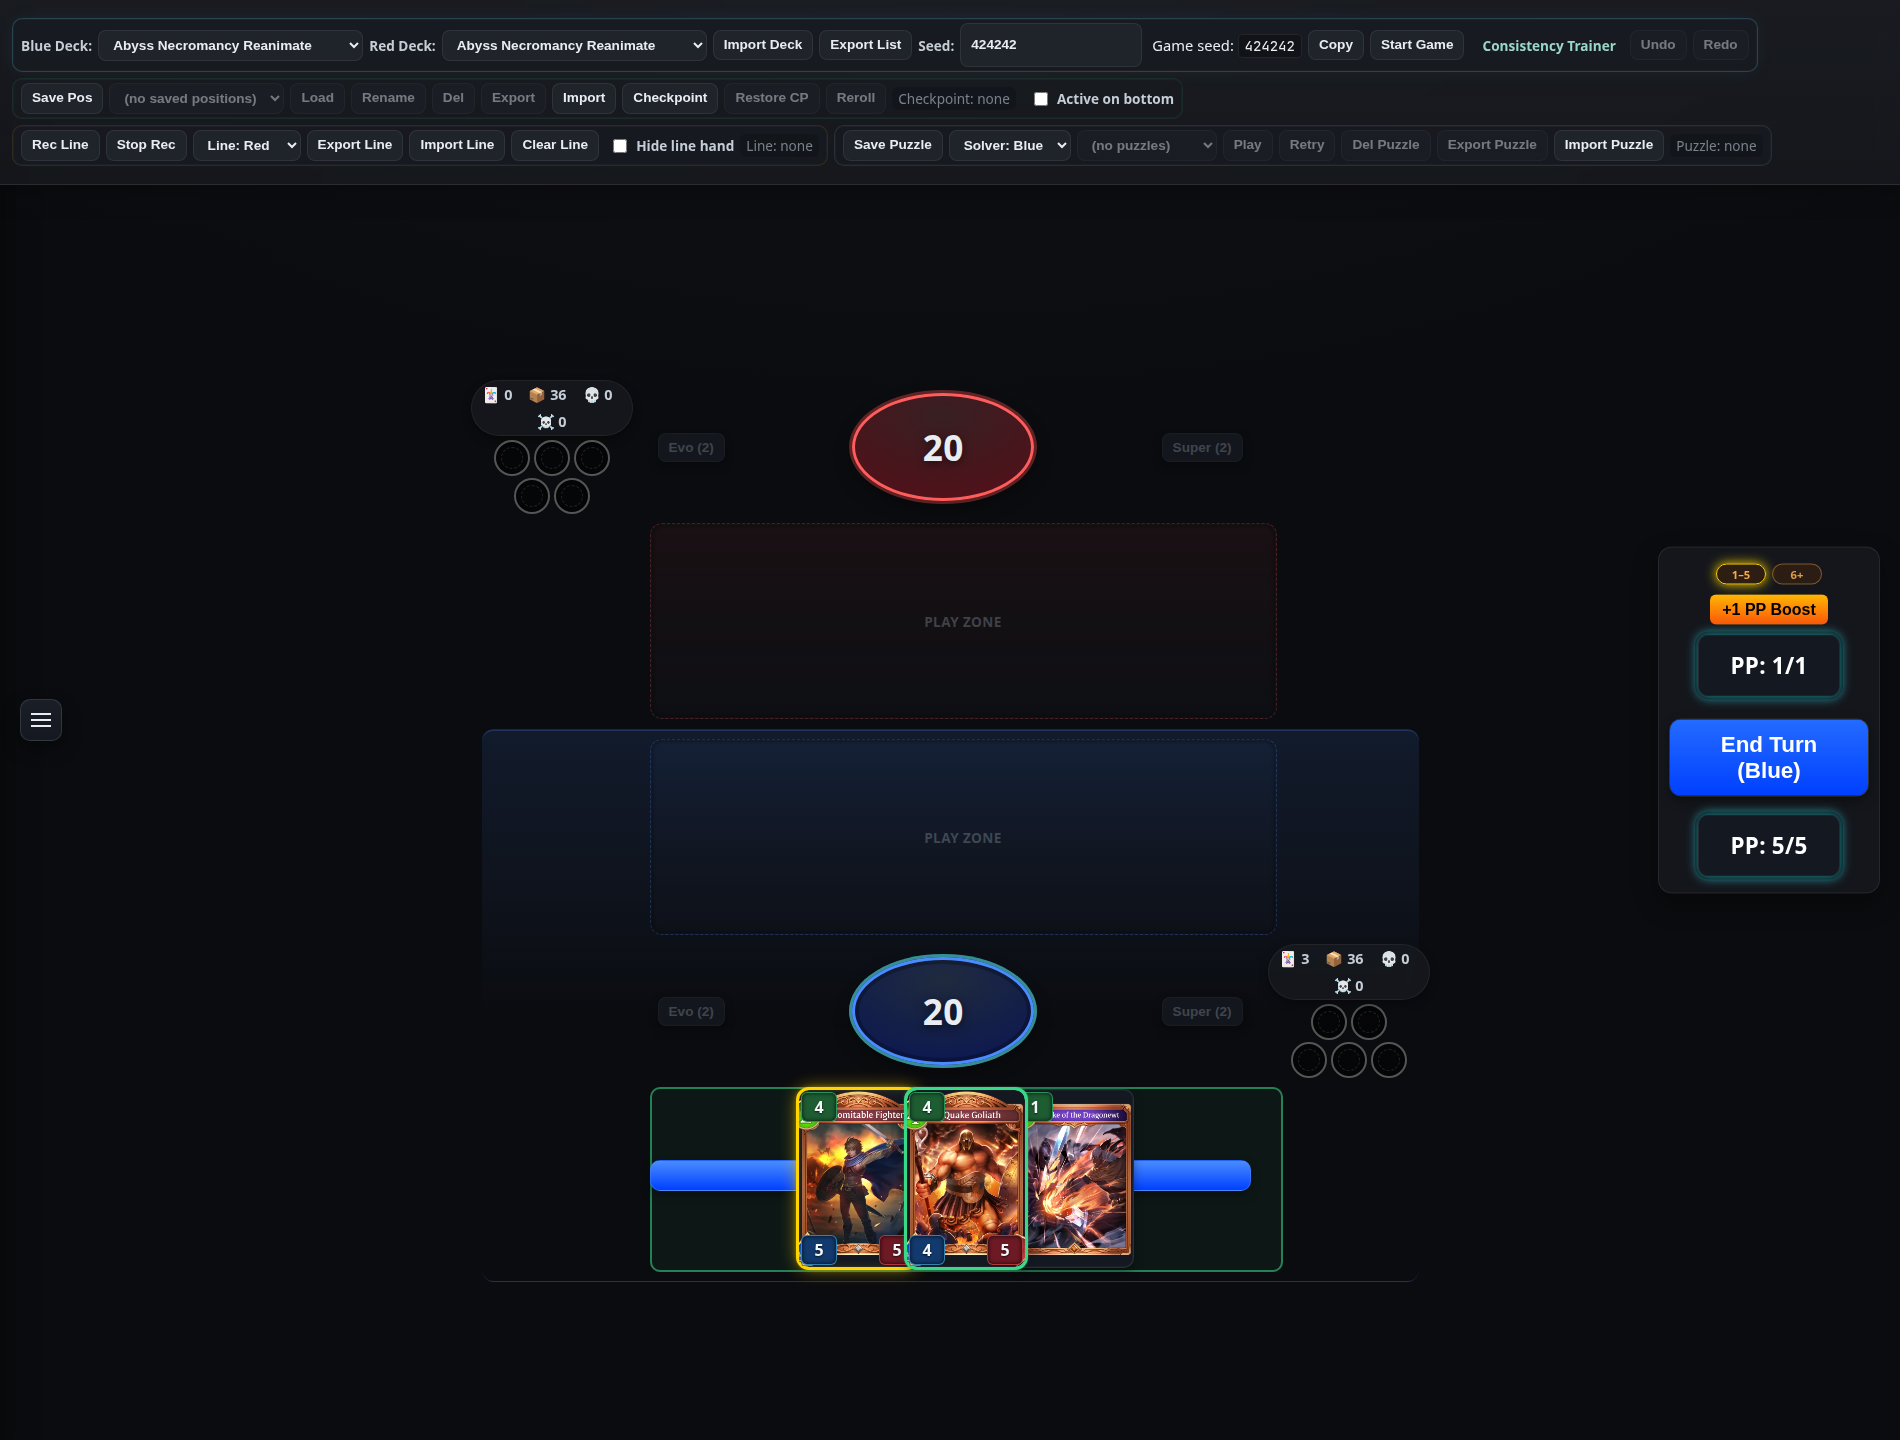
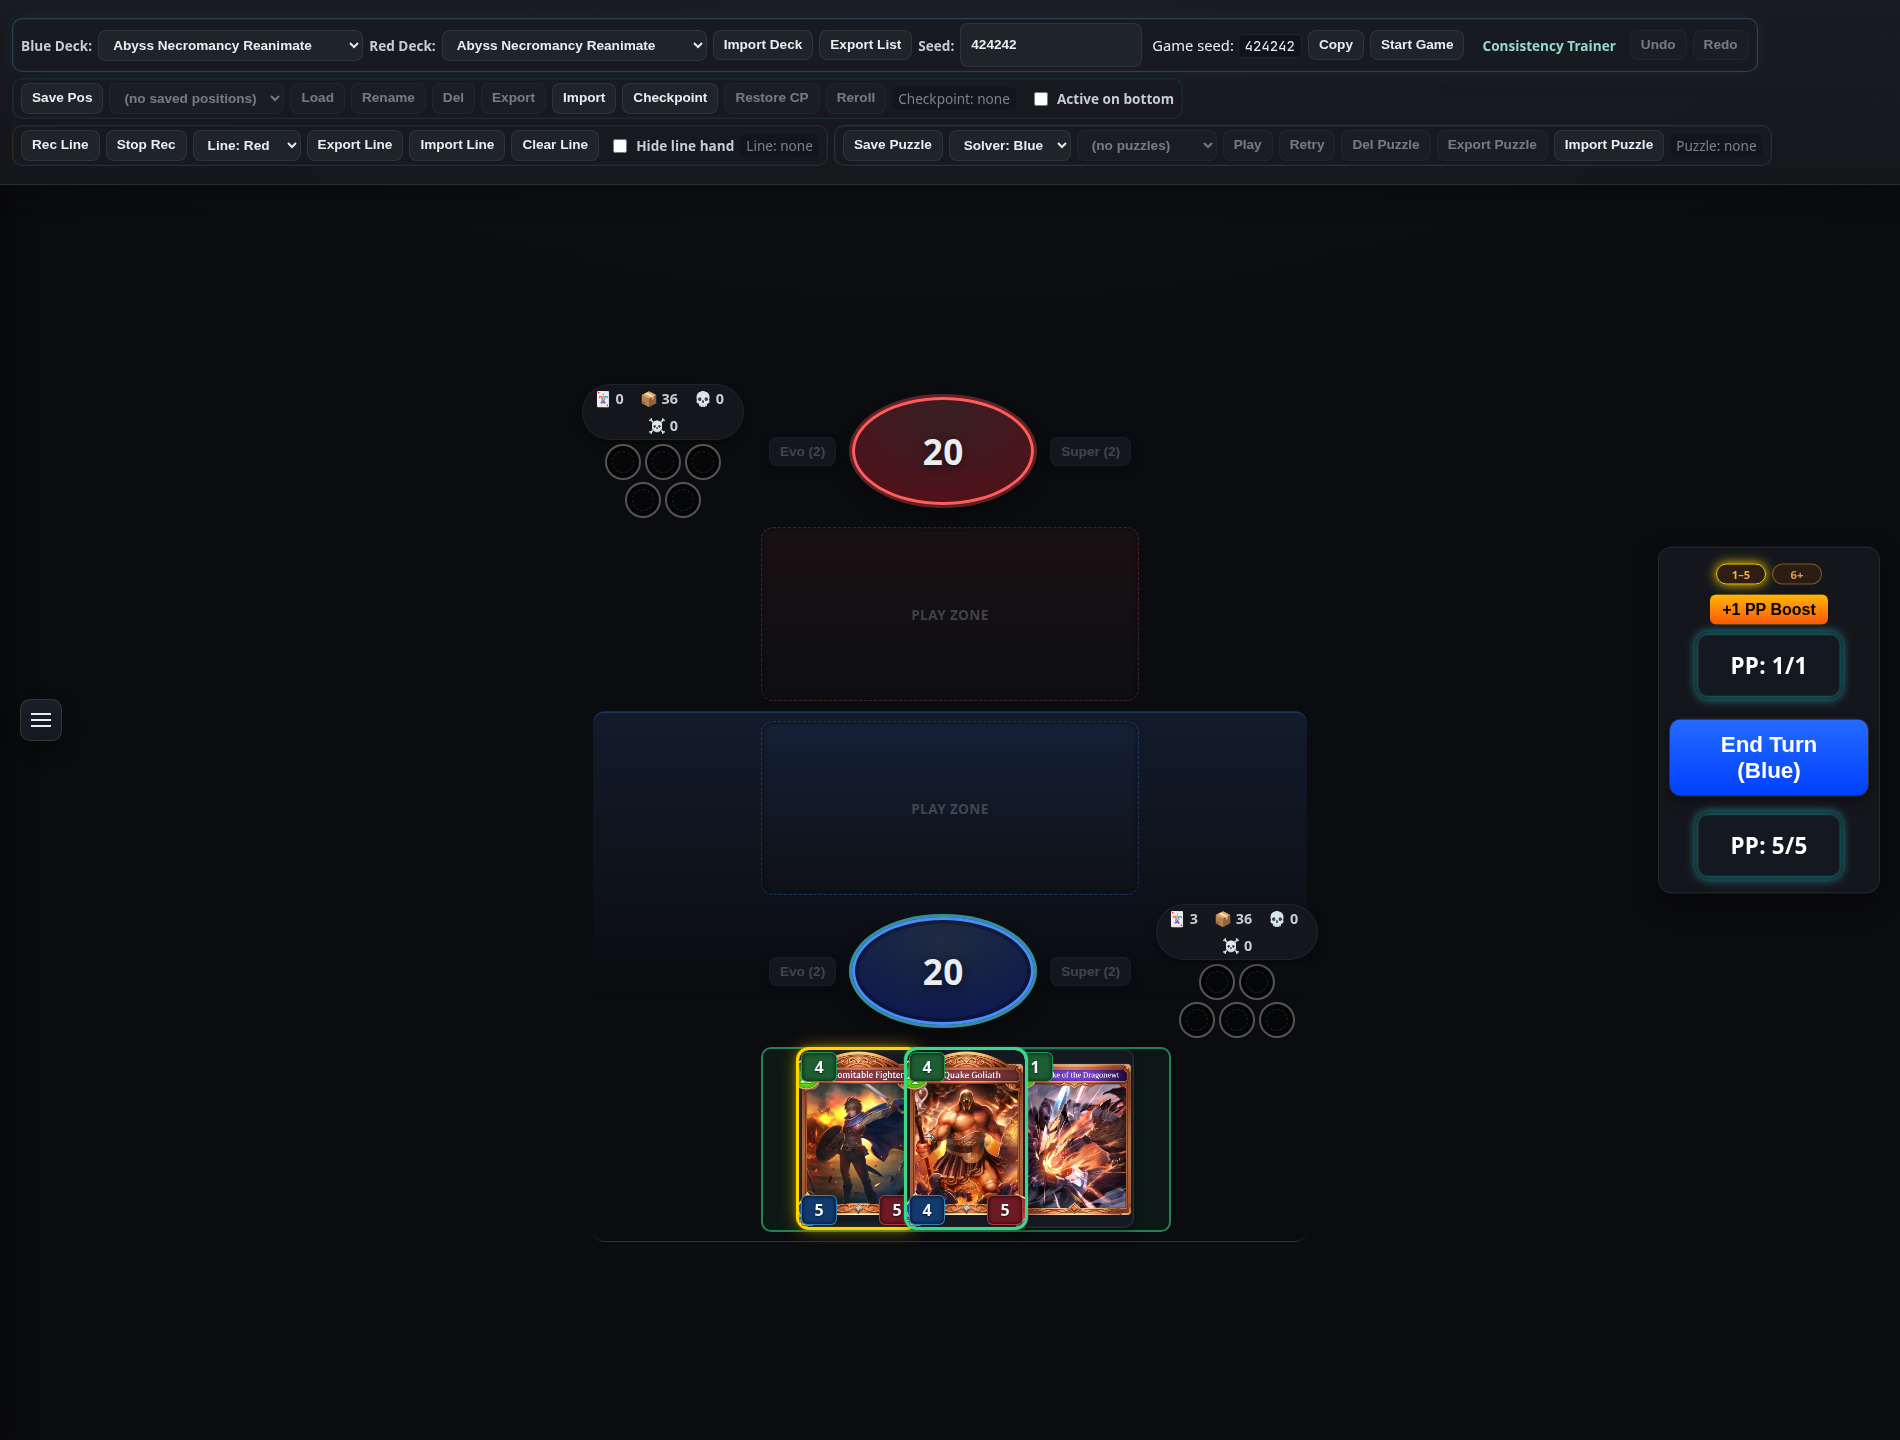
Fix mulligan button overlap and board zone symmetry
- Give mulligan confirm its own grid row below the hand (not shared with hand)
- Constrain mulligan button to auto width, centred in play column
- Force both board zones to 100% play-column width with min-width: 0
- Add mulligan×hand and board-symmetry assertions to screenshot pass
- Hide mulligan buttons in main-phase baseline screenshots

diff --git a/css/modern-theme.css b/css/modern-theme.css
@@ -376,30 +376,40 @@ body {
 }
 
 .side-red #redHand,
-.side-red #redMulliganConfirm,
 .side-red .leader-container,
 .side-red #redBoard,
 .side-blue #blueBoard,
 .side-blue .leader-container,
-.side-blue #blueHand,
-.side-blue #blueMulliganConfirm {
+.side-blue #blueHand {
   grid-column: 2;
   justify-self: stretch;
   width: 100%;
   max-width: 100%;
 }
 
-.side-red #redHand,
-.side-red #redMulliganConfirm {
+.side-red #redMulliganConfirm,
+.side-blue #blueMulliganConfirm {
+  grid-column: 2;
+  justify-self: center;
+  align-self: center;
+  width: auto;
+  max-width: min(420px, 100%);
+}
+
+.side-red #redHand {
   grid-row: 1;
 }
 
-.side-red .leader-container {
+.side-red #redMulliganConfirm {
   grid-row: 2;
 }
 
-.side-red #redBoard {
+.side-red .leader-container {
   grid-row: 3;
+}
+
+.side-red #redBoard {
+  grid-row: 4;
 }
 
 .side-blue #blueBoard {
@@ -414,14 +424,17 @@ body {
   grid-row: 2;
 }
 
-.side-blue #blueHand,
-.side-blue #blueMulliganConfirm {
+.side-blue #blueHand {
   grid-row: 3;
+}
+
+.side-blue #blueMulliganConfirm {
+  grid-row: 4;
 }
 
 #redStatsContainer {
   grid-column: 1;
-  grid-row: 2;
+  grid-row: 3;
   justify-self: start;
   align-self: center;
 }
@@ -468,6 +481,18 @@ body.active-second .side-red {
   padding: var(--space-4) var(--space-6);
   border-radius: var(--radius-xl);
   box-shadow: var(--shadow-inset-subtle), var(--shadow-inset-well);
+  width: 100%;
+  max-width: 100%;
+  min-width: 0;
+  box-sizing: border-box;
+}
+
+#redBoard,
+#blueBoard {
+  width: 100%;
+  max-width: 100%;
+  min-width: 0;
+  box-sizing: border-box;
 }
 
 .hand-zone {

diff --git a/css/layout.css b/css/layout.css
@@ -194,7 +194,7 @@
   flex-wrap: nowrap;
   gap: var(--space-3);
   min-height: var(--board-zone-min-height, 168px);
-  min-width: 575px;
+  min-width: 0;
   padding: var(--space-5) var(--space-6);
   border: 1px dashed var(--color-border-default);
   border-radius: var(--radius-xl);

diff --git a/css/buttons.css b/css/buttons.css
@@ -216,6 +216,8 @@
   display: inline-flex;
   align-items: center;
   justify-content: center;
+  width: auto;
+  max-width: min(420px, 100%);
   min-height: var(--toolbar-control-height);
   padding: var(--space-3) var(--space-8);
   margin: var(--space-2) auto var(--space-4);
